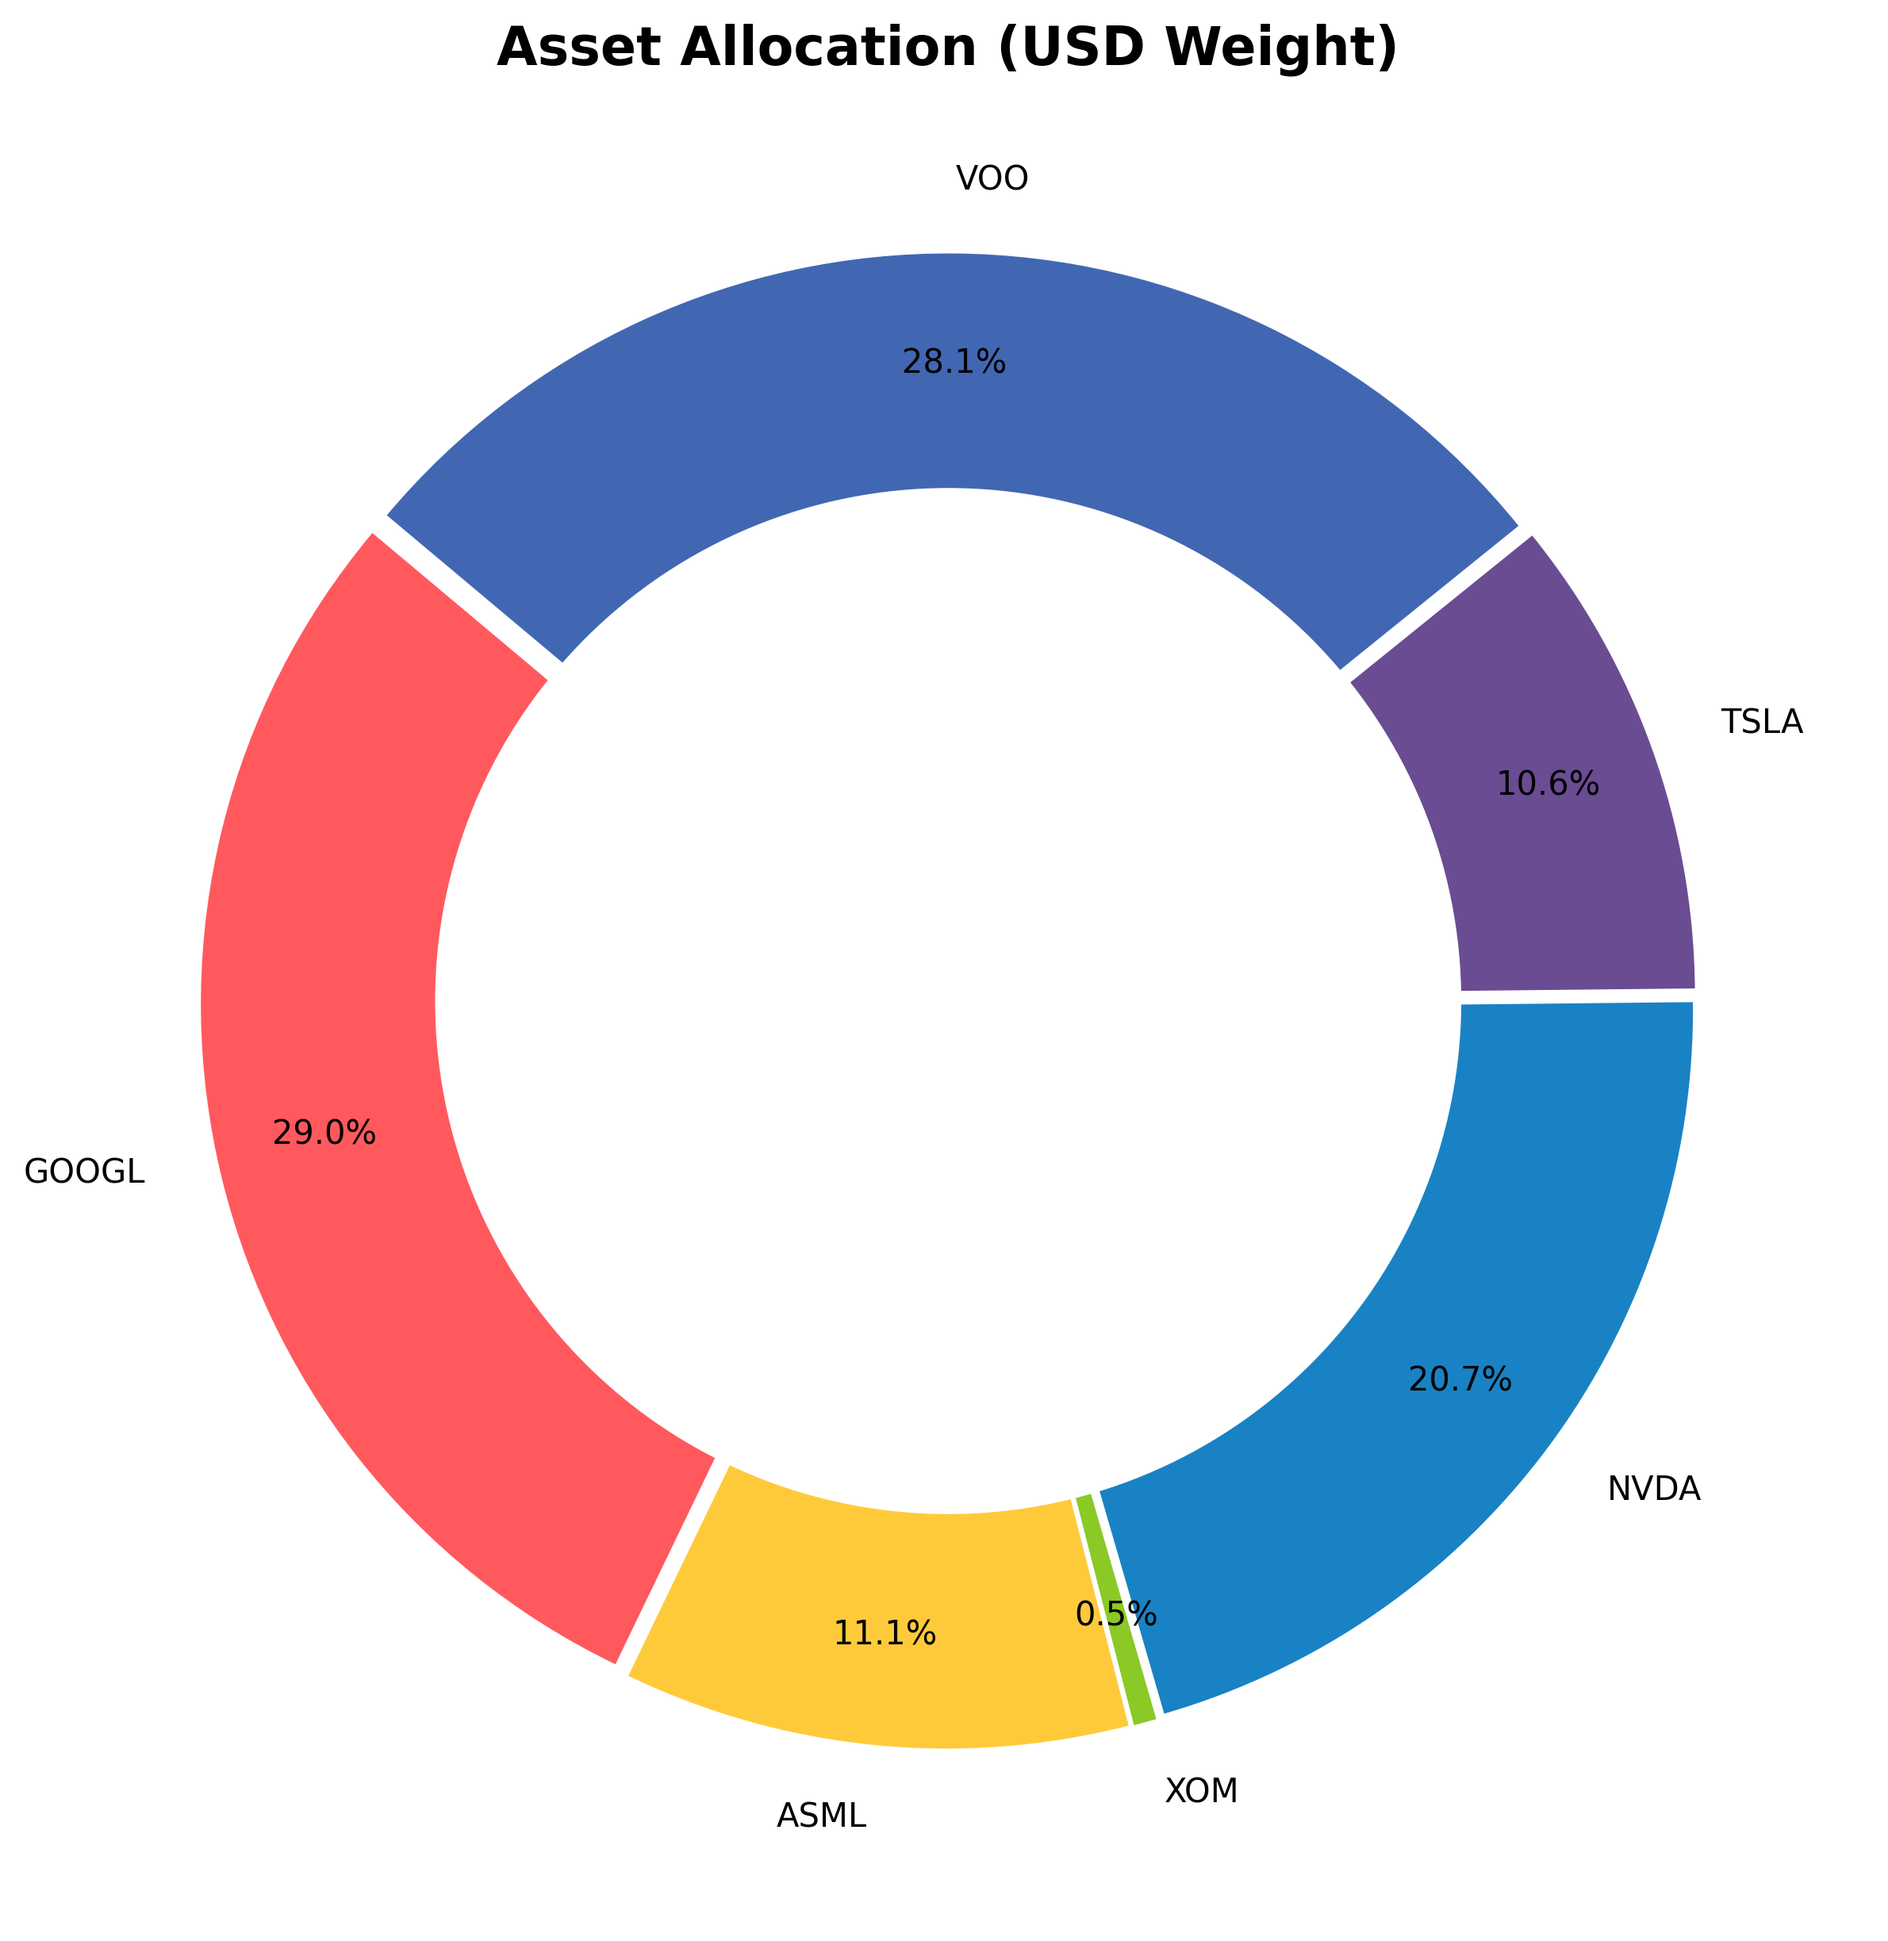
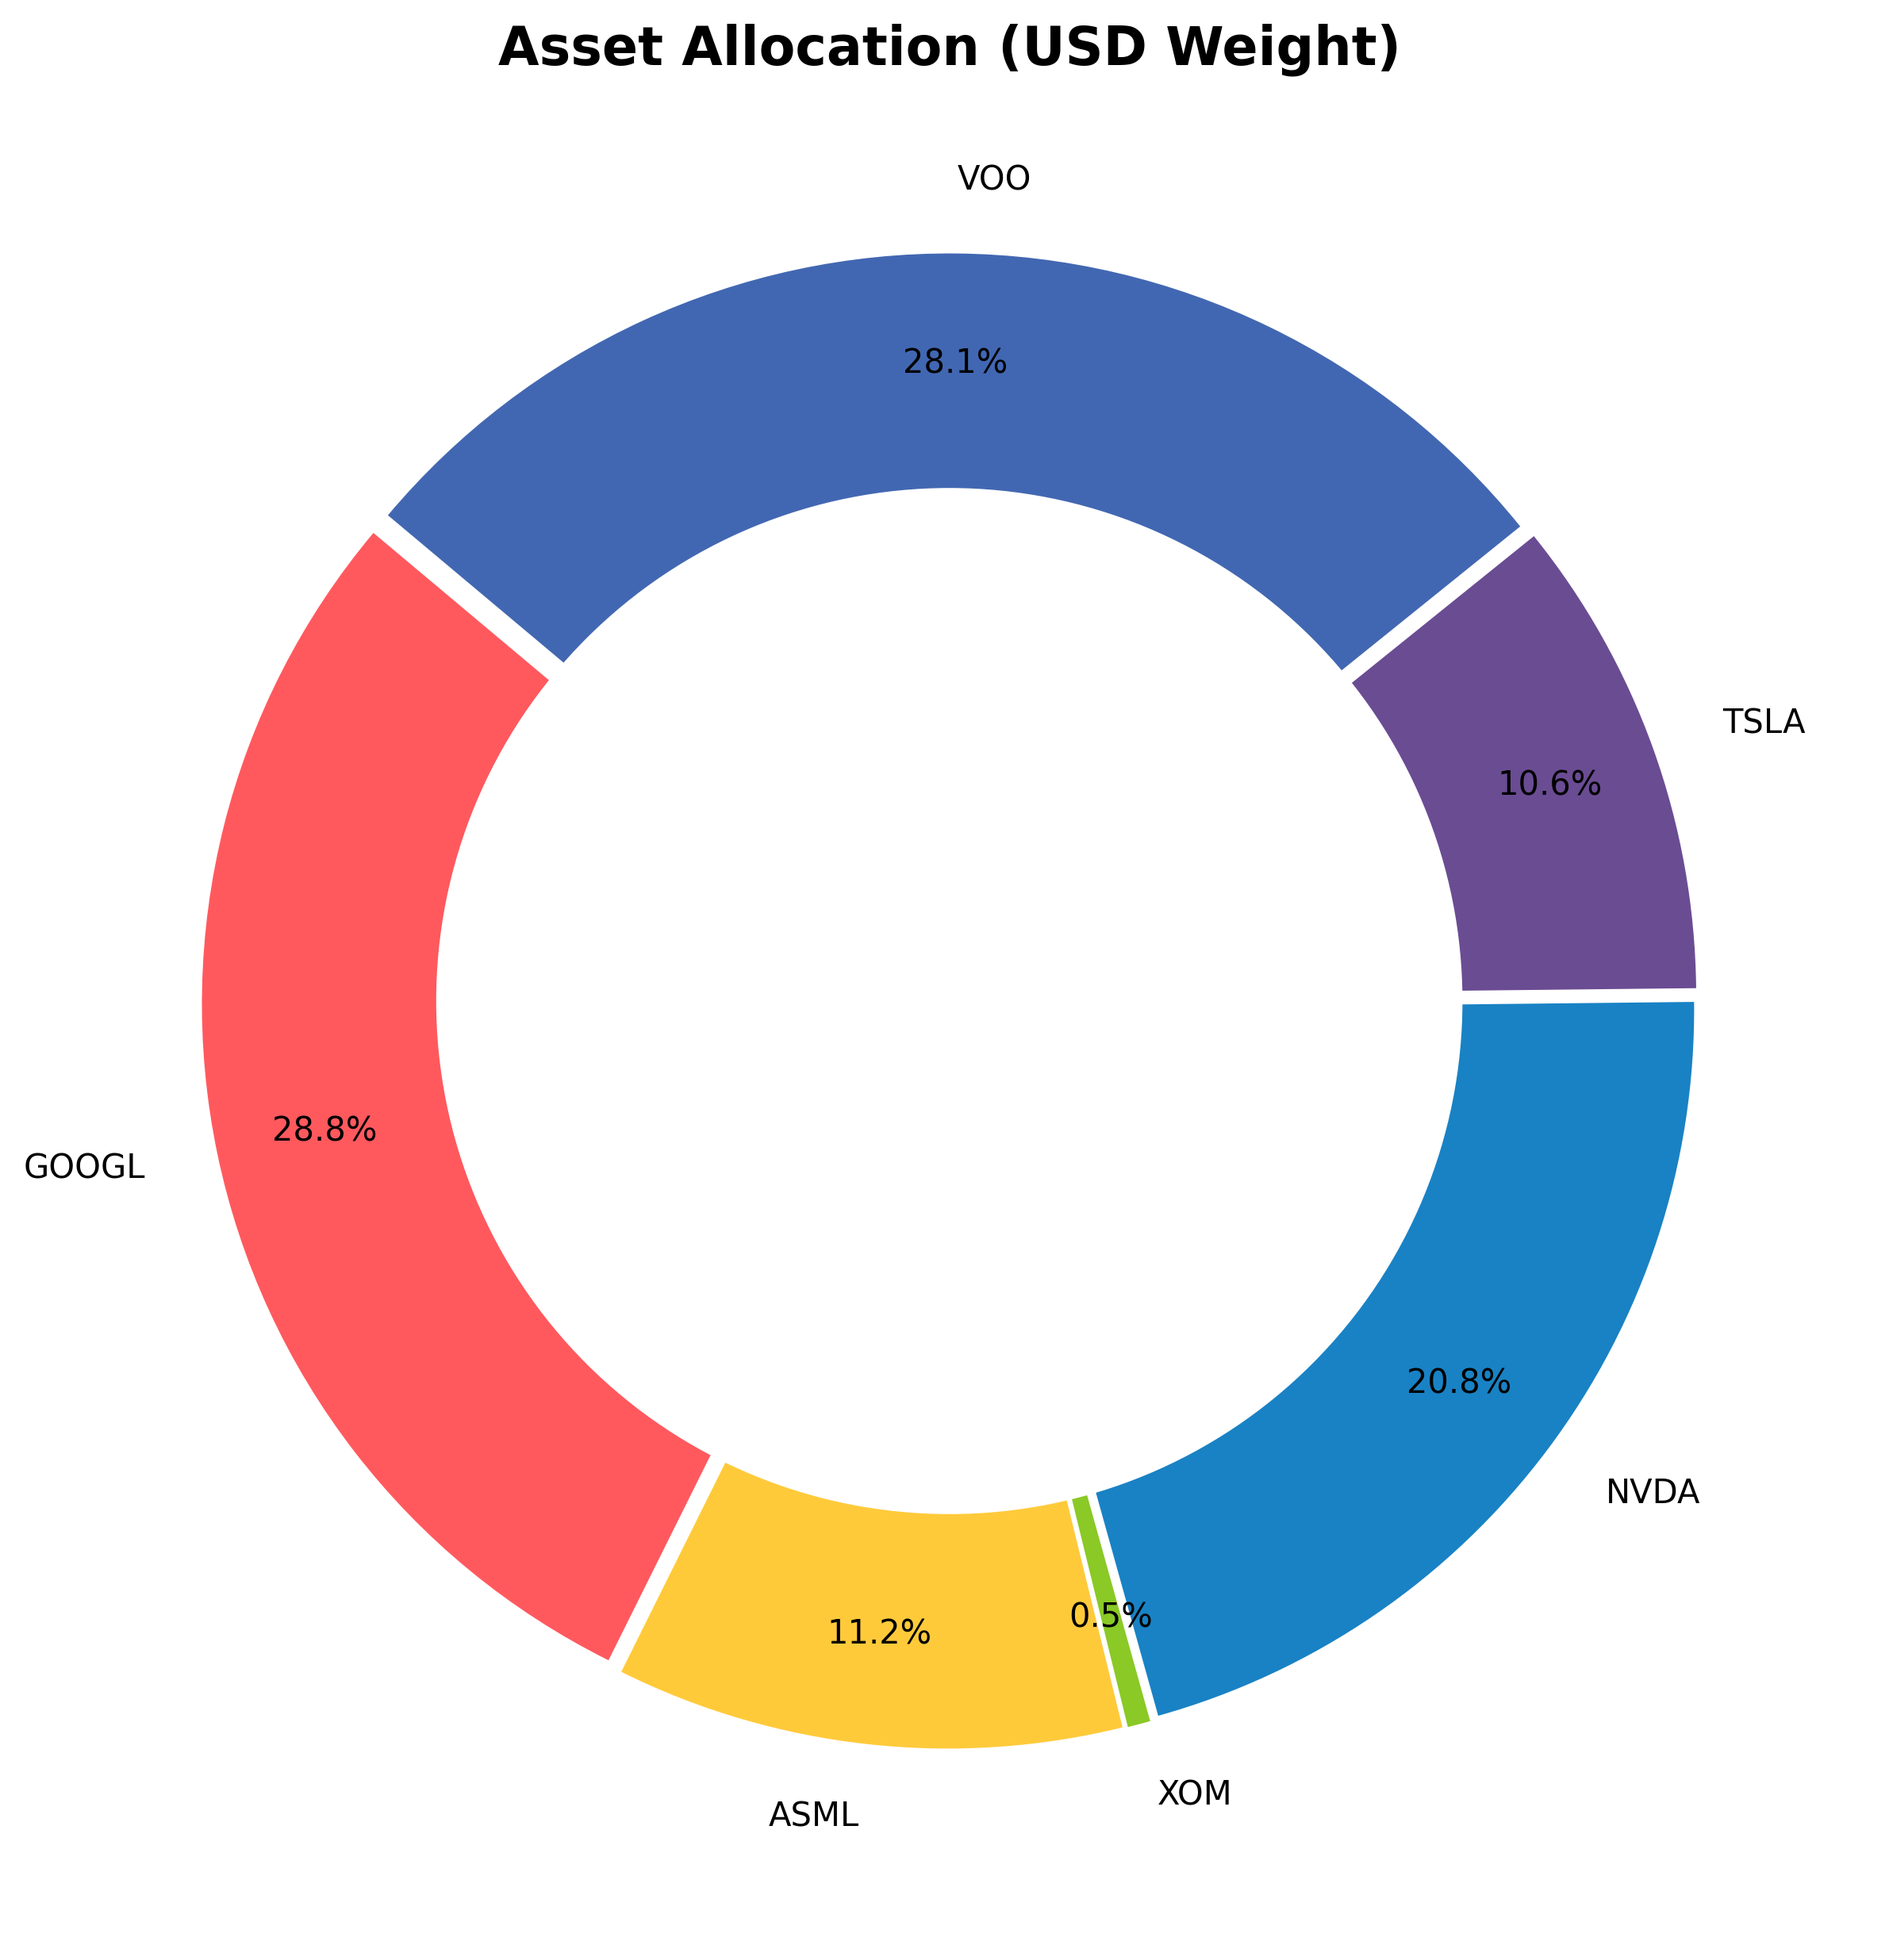
System Run: Analytics & Archive Update [skip ci]

diff --git a/README.md b/README.md
@@ -1,23 +1,23 @@
 # 📊 Portfolio Dashboard | מעקב תיק השקעות
-**Last Update:** 05/08/2026 19:02 | **USD/ILS:** ₪3.008
+**Last Update:** 05/08/2026 21:24 | **USD/ILS:** ₪3.003
 
 ## 💰 Portfolio Summary | סיכום התיק
 | Metric | Value | נתון |
 | :--- | :--- | :--- |
-| **Current Value** | `₪182,018` | **שווי נוכחי** |
-| **Total Invested** | `₪128,961` | **סך השקעה** |
-| **Total Profit/Loss** | `+41.14%` (₪53,058) | **רווח/הפסד כולל** |
-| **Daily Change** | `+1.27%` | **שינוי יומי** |
+| **Current Value** | `₪182,010` | **שווי נוכחי** |
+| **Total Invested** | `₪128,729` | **סך השקעה** |
+| **Total Profit/Loss** | `+41.39%` (₪53,281) | **רווח/הפסד כולל** |
+| **Daily Change** | `+0.08%` | **שינוי יומי** |
 
 ## 📜 Holdings | פירוט החזקות
 | Ticker | Shares | Avg. Cost | Current Price | P&L % | P&L ILS |
 | :--- | :--- | :--- | :--- | :--- | :--- |
-| GOOGL | 48 | $187.99 | $365.07 | 🟢 +94.20% | ₪25,568 |
-| ASML | 4 | $934.51 | $1,685.64 | 🟢 +80.38% | ₪9,038 |
-| XOM | 2 | $126.08 | $152.01 | 🟢 +20.57% | ₪156 |
-| NVDA | 57 | $148.62 | $219.45 | 🟢 +47.66% | ₪12,145 |
-| TSLA | 20 | $436.45 | $322.12 | 🔴 -26.20% | ₪-6,878 |
-| VOO | 24 | $527.38 | $707.85 | 🟢 +34.22% | ₪13,029 |
+| GOOGL | 48 | $187.99 | $363.26 | 🟢 +93.23% | ₪25,262 |
+| ASML | 4 | $934.51 | $1,693.77 | 🟢 +81.25% | ₪9,119 |
+| XOM | 2 | $126.08 | $152.18 | 🟢 +20.70% | ₪157 |
+| NVDA | 57 | $148.62 | $221.60 | 🟢 +49.11% | ₪12,491 |
+| TSLA | 20 | $436.45 | $322.02 | 🔴 -26.22% | ₪-6,872 |
+| VOO | 24 | $527.38 | $709.50 | 🟢 +34.53% | ₪13,124 |
 
 ## 📈 Charts | גרפים
 ![Performance](./data_hub/portfolio_performance.png)
